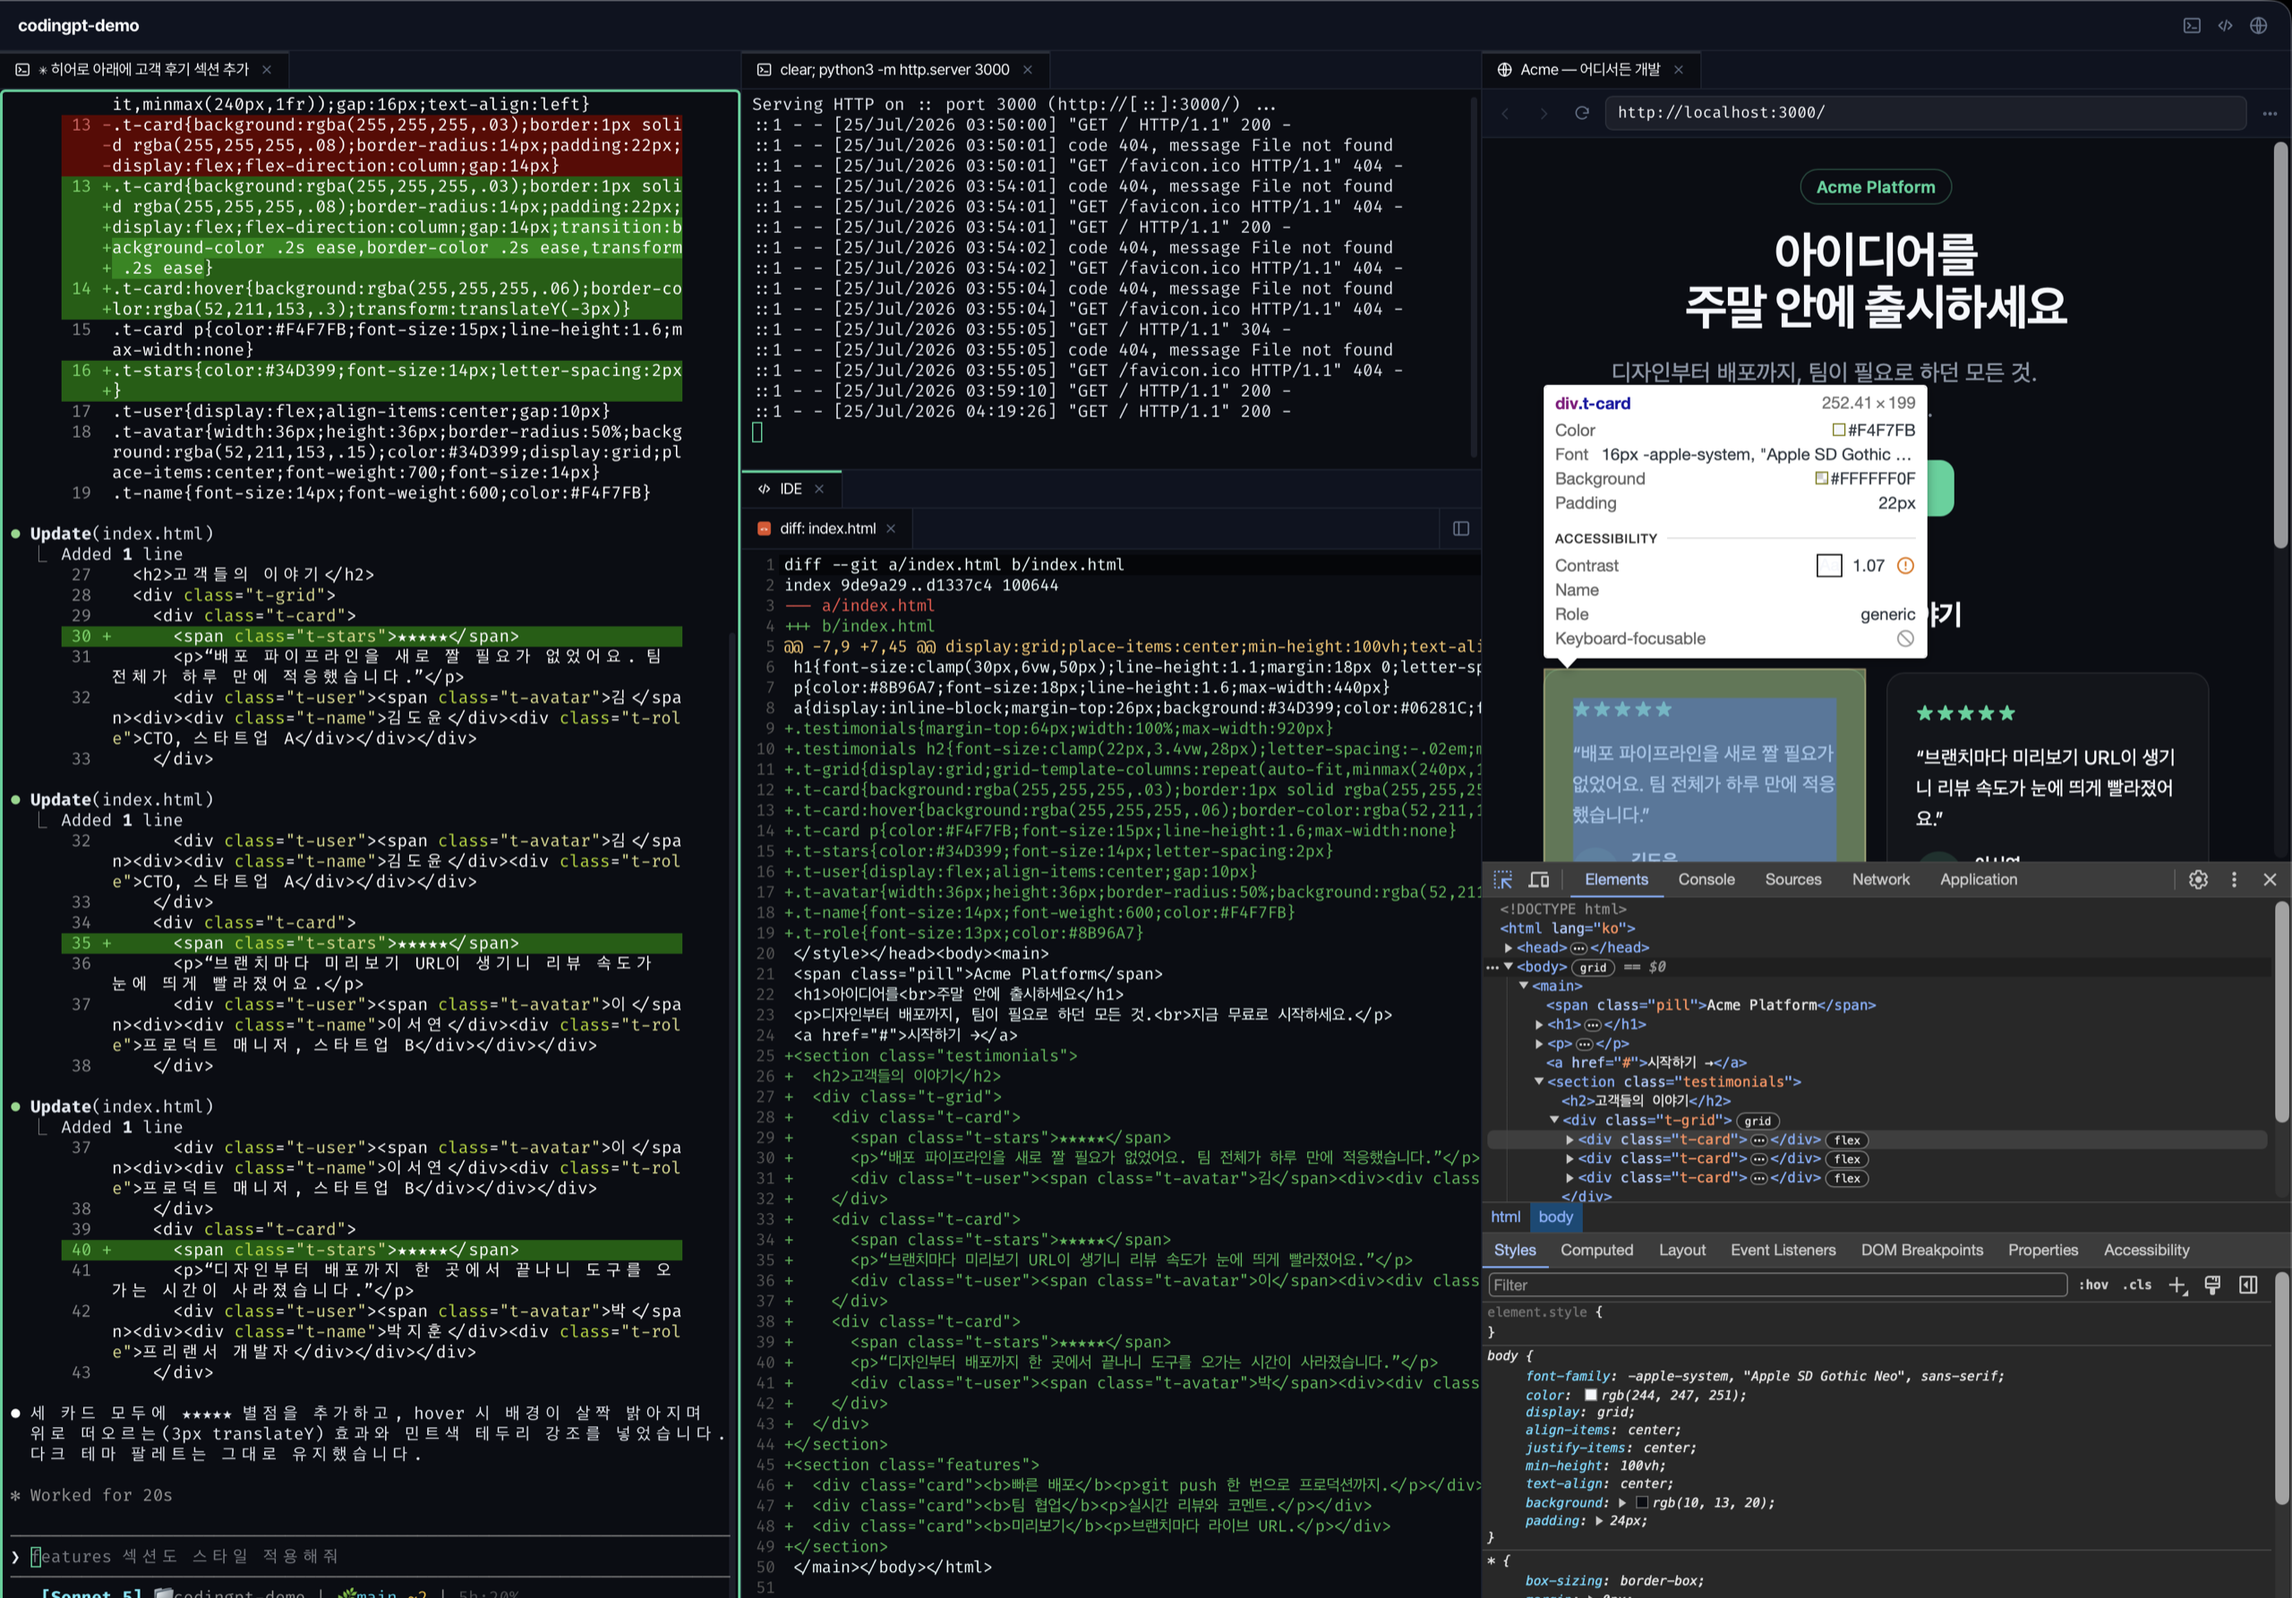
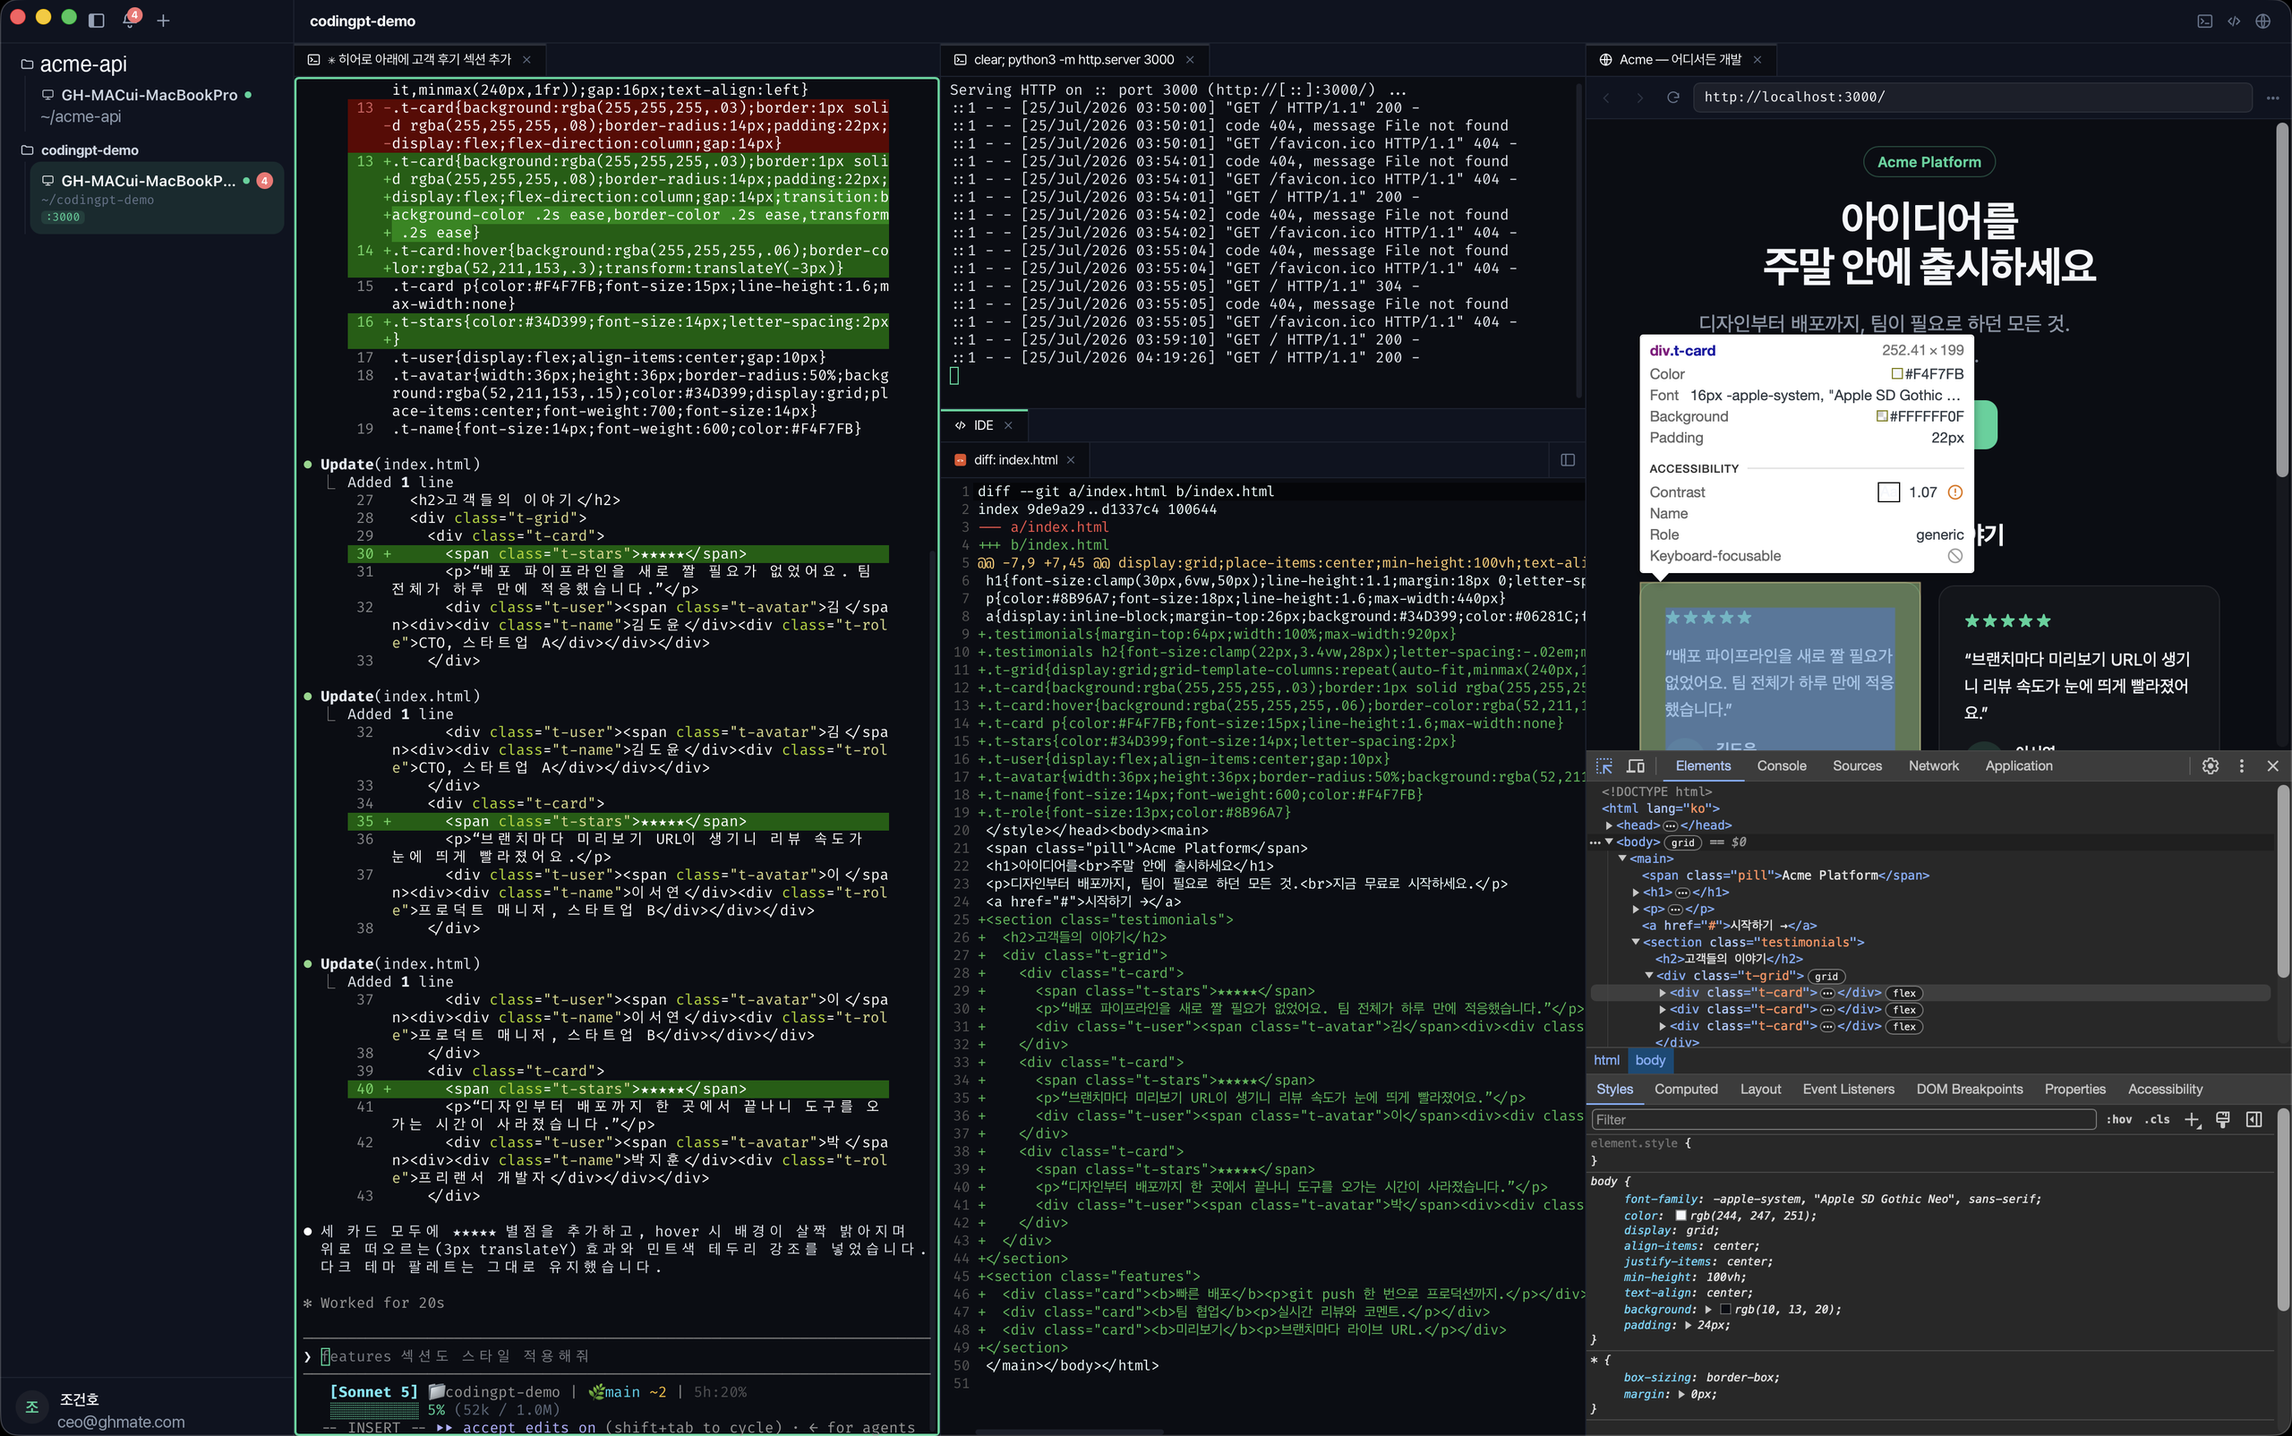
히어로에 실제 PC 앱 창 그대로 사용 + 가짜 타이틀바 제거
- 임의 mac 스타일 타이틀바 제거 → 실제 앱 창의 트래픽라이트·알림·워크스페이스 탭 그대로.
- 왼쪽 워크스페이스 사이드바(+계정) 포함해 진짜 앱 화면.
- 공개 노출 개인정보 리댁션: 실제 프로젝트명→acme-api, 개인 이메일→공개 업무 이메일(ceo@ghmate.com).

diff --git a/codingpt_front/app/(public)/page.tsx b/codingpt_front/app/(public)/page.tsx
@@ -180,11 +180,7 @@ export default function Home() {
             <div className="shot-glow" />
             <div className="app-scroll">
               <div className="app">
-                <div className="app-bar">
-                  <span className="dots"><i className="r" /><i className="y" /><i className="g" /></span>
-                  <span className="ttl">CodingPT — codingpt-demo</span>
-                </div>
-                <img className="shot-img" src="/hero-workspace.png" alt="CodingPT 워크스페이스 — 터미널의 AI 에이전트 세션, 코드 에디터의 실시간 diff, 개발자도구를 연 미리보기" />
+                <img className="shot-img" src="/hero-workspace.png" alt="CodingPT 데스크톱 앱 워크스페이스 — 워크스페이스 사이드바, 터미널의 AI 에이전트 세션, 코드 에디터의 실시간 diff, 개발자도구를 연 미리보기" />
               </div>
             </div>
             <div className="phone">
